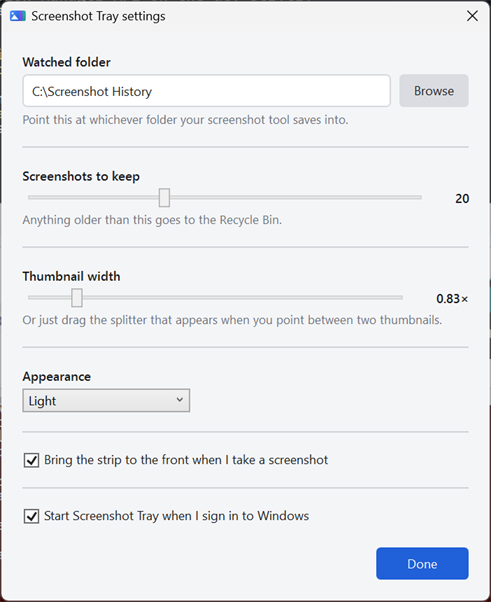
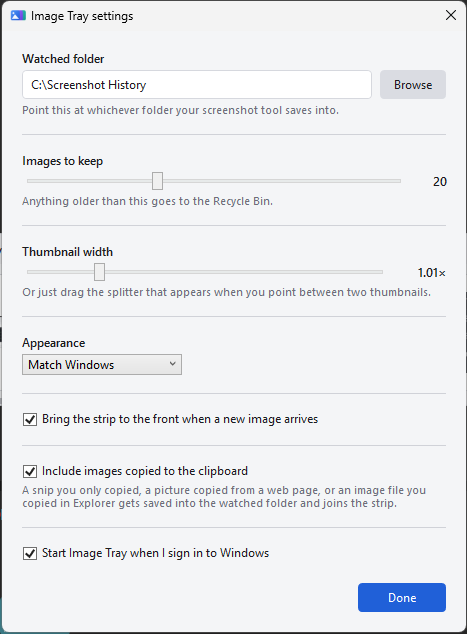
Rewrite the README opening and refresh its screenshots
The old copy spent its first sentence on the mechanism and left the clipboard
behaviour as "grab that", which does not say where anything goes. It now leads with
what you get, and the clipboard paragraph names the folder the images land in.

New shots of the strip and the settings window, both under the new name, plus one of
the tray icon and its tooltip, which is how you reach the strip in the first place.

diff --git a/README.md b/README.md
@@ -1,9 +1,16 @@
 # Image Tray
 
-A small vibe-coded Windows app that shows your most recent screenshots in a strip so you can put  
-one back on the clipboard with a single click. It can also notice any image, or image file path, going to the clipboard and grab that.
+A small vibe-coded Windows app that keeps your recent screenshots in a strip, one click away from
+the clipboard.
+
+It watches whichever folder your screenshot tool saves into. It watches the clipboard too, so a
+snip you only ever copied gets saved into that folder and appears in the strip with everything
+else. Copying an image file, or a path to one, does the same.
+
+It lives in the notification area. Click the icon to bring the strip up.
 
 ![Image Tray](docs/image-tray.png)
 
 ![Image Tray settings](docs/settings.png)
 
+![The Image Tray icon in the Windows notification area, showing its tooltip](docs/tray-icon.png)
